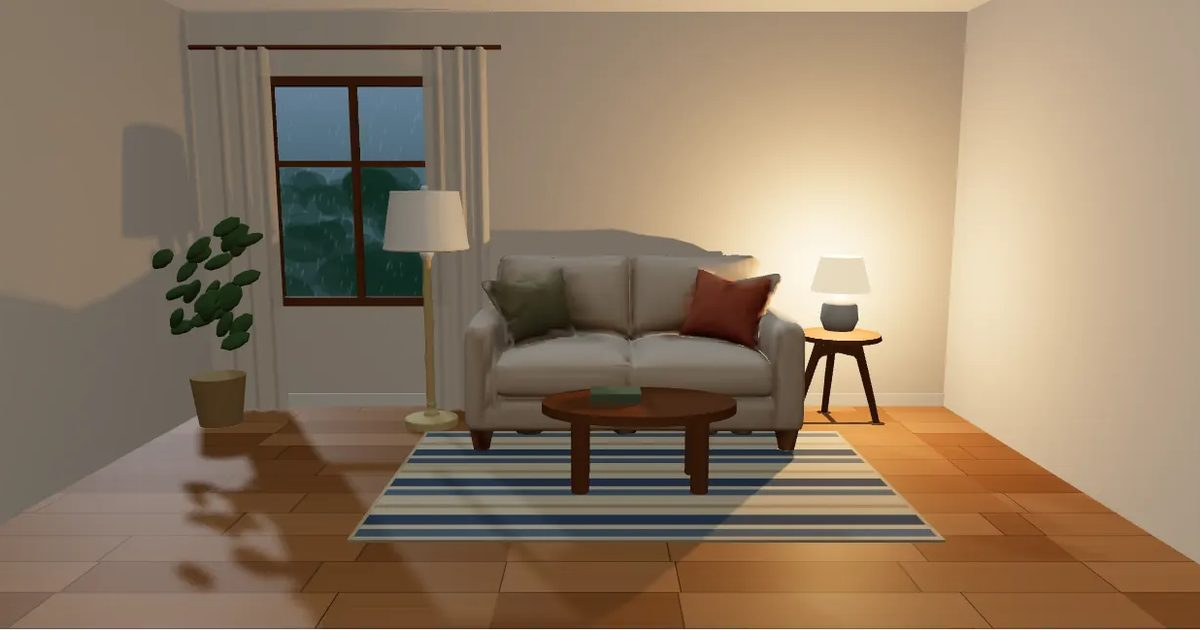
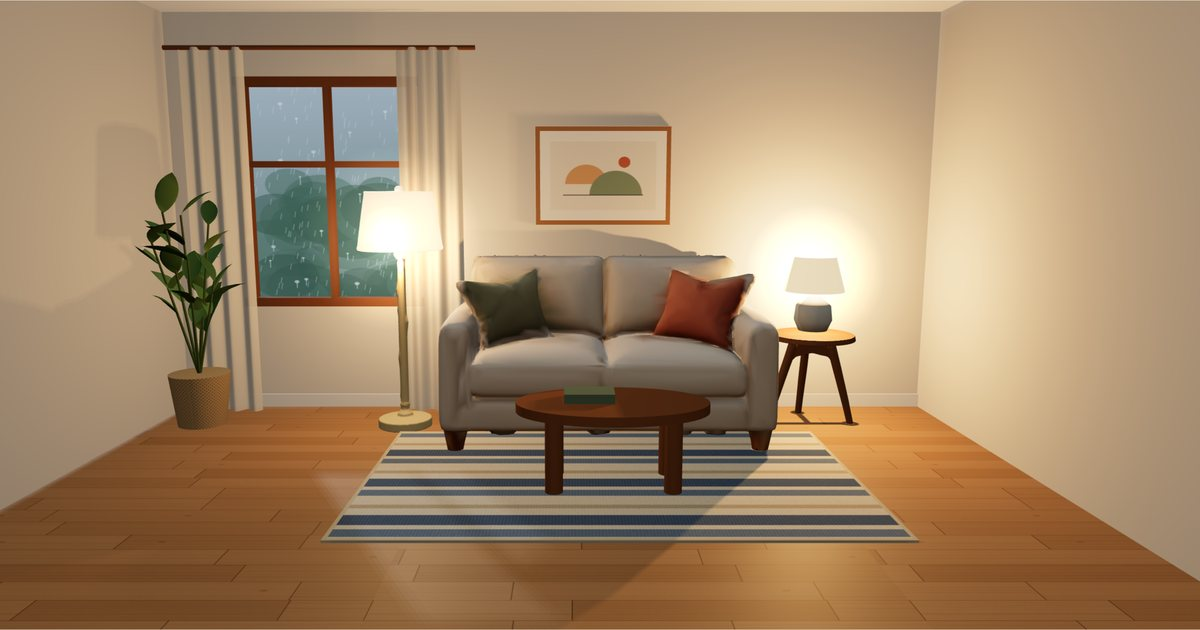
ROOMVERSE 3D: detail round 1 (window view per mood, real window light, floor, plant, print, lit lamps)
- The view outside changes with the feeling: rain, a sunny afternoon, a city night
- Walls and ceiling cast shadows, so window light comes in only through the window
  (fixes the bright band on the right wall and the stray plant shadow)
- Narrow oak planks instead of wide tile-like boards
- Plant rebuilt: woven basket, stems, real leaf shapes
- Framed print above the sofa; LED strip moved below it
- Floor lamp lights up (glowing shade) in the rain and night moods; halos around lit shades
- Poster, mobile poster and share image re-captured to match

Claude-Session: https://claude.ai/code/session_01BAtewmLxFW65JSewr35GUN

diff --git a/public/prototype/roomverse-3d/app.js b/public/prototype/roomverse-3d/app.js
@@ -12,9 +12,10 @@ export const TEXT = {
   en: { mood: "Feeling", wall: "Wall", rug: "Rug", hint: "Drag to turn the room a little." },
 };
 const MOODS = {
-  rain: { zh: "下雨天想窩在家裡", en: "Rainy day, staying in", hemi: .9, win: .7, winCol: "#bccbdb", lamp: 5, fill: 1.2, out: "#9aa9b6", exposure: 1.05 },
-  family: { zh: "Cozy family", en: "Cozy family", hemi: 1.6, win: 3.2, winCol: "#ffe7c2", lamp: 2, fill: 2.4, out: "#ffffff", exposure: 1.15 },
-  tech: { zh: "未來輕科技宅男", en: "Light-tech homebody", hemi: .6, win: .4, winCol: "#a9c4ff", lamp: 3.6, fill: .7, out: "#6f7f9a", exposure: 1, led: true },
+  // floor: the floor lamp's light; glow: how strong the halos around lit shades are
+  rain: { zh: "下雨天想窩在家裡", en: "Rainy day, staying in", hemi: .9, win: .7, winCol: "#bccbdb", lamp: 5, fill: 1.2, out: "#d2dae0", exposure: 1.05, floor: 2.2, glow: .55 },
+  family: { zh: "Cozy family", en: "Cozy family", hemi: 1.6, win: 3.2, winCol: "#ffe7c2", lamp: 2, fill: 2.4, out: "#ffffff", exposure: 1.15, floor: 0, glow: .15 },
+  tech: { zh: "未來輕科技宅男", en: "Light-tech homebody", hemi: .6, win: .4, winCol: "#a9c4ff", lamp: 3.6, fill: .7, out: "#ffffff", exposure: 1, led: true, floor: 1.2, glow: .45 },
 };
 
 export async function start({ stage, panel, lang, onReady }) {
@@ -57,21 +58,24 @@ export async function start({ stage, panel, lang, onReady }) {
   }
   let seed = 7; const rnd = () => (seed = (seed * 16807) % 2147483647) / 2147483647; // same grain every visit
   const noise = (ctx, w, h, a, n = 9000) => { for (let i = 0; i < n; i++) { ctx.fillStyle = `rgba(${rnd() < .5 ? "255,255,255" : "0,0,0"},${a})`; ctx.fillRect(rnd() * w, rnd() * h, 1.5, 1.5); } };
+  // narrow oak planks (about 15 cm wide), low tone contrast so they read as wood, not tiles
   const floorTex = canvasTex(1024, 1024, (ctx, w, h) => {
-    const plank = h / 8;
-    for (let r = 0; r < 8; r++) {
-      let x = -(r % 3) * 170;
+    const rows = 12, plank = h / rows;
+    for (let r = 0; r < rows; r++) {
+      let x = -((r * 397) % 520);
       while (x < w) {
-        const len = 300 + rnd() * 260, tone = 120 + rnd() * 30;
-        ctx.fillStyle = `rgb(${tone + 40},${tone - 10},${tone - 55})`; ctx.fillRect(x, r * plank, len, plank);
-        for (let g = 0; g < 14; g++) { ctx.strokeStyle = `rgba(70,35,10,${.05 + rnd() * .07})`; ctx.beginPath(); const y = r * plank + rnd() * plank; ctx.moveTo(x, y); ctx.bezierCurveTo(x + len * .3, y + 4, x + len * .6, y - 4, x + len, y + 2); ctx.stroke(); }
-        ctx.fillStyle = "rgba(40,20,5,.55)"; ctx.fillRect(x, r * plank, 2, plank);
+        const len = 380 + rnd() * 320, tone = 128 + rnd() * 14;
+        ctx.fillStyle = `rgb(${tone + 44},${tone - 2},${tone - 46})`; ctx.fillRect(x, r * plank, len, plank);
+        for (let g = 0; g < 10; g++) { ctx.strokeStyle = `rgba(90,50,20,${.04 + rnd() * .06})`; ctx.lineWidth = 1 + rnd(); ctx.beginPath(); const y = r * plank + 3 + rnd() * (plank - 6); ctx.moveTo(x, y); ctx.bezierCurveTo(x + len * .3, y + 3, x + len * .6, y - 3, x + len, y + 1); ctx.stroke(); }
+        if (rnd() < .35) { ctx.fillStyle = "rgba(90,50,20,.18)"; ctx.beginPath(); ctx.ellipse(x + rnd() * len, r * plank + plank / 2, 9, 4, 0, 0, 7); ctx.fill(); } // a knot now and then
+        ctx.fillStyle = "rgba(50,25,8,.4)"; ctx.fillRect(x, r * plank, 2, plank);
         x += len;
       }
-      ctx.fillStyle = "rgba(40,20,5,.5)"; ctx.fillRect(0, r * plank, w, 2);
+      ctx.fillStyle = "rgba(50,25,8,.35)"; ctx.fillRect(0, r * plank, w, 1.5);
     }
+    noise(ctx, w, h, .03, 20000);
   });
-  floorTex.repeat.set(2.2, 2.2);
+  floorTex.repeat.set(2.6, 2.6);
   const WALLS = {
     original: { zh: "原來的米白", en: "Original cream", paint: "#e9e1d3" },
     sand: { zh: "暖砂米", en: "Warm sand", paint: "#d9c6a8" },
@@ -120,18 +124,38 @@ export async function start({ stage, panel, lang, onReady }) {
   const wallShape = new THREE.Shape([new THREE.Vector2(-W / 2, 0), new THREE.Vector2(W / 2, 0), new THREE.Vector2(W / 2, H), new THREE.Vector2(-W / 2, H)]);
   wallShape.holes.push(new THREE.Path([new THREE.Vector2(win.x0, win.y0), new THREE.Vector2(win.x1, win.y0), new THREE.Vector2(win.x1, win.y1), new THREE.Vector2(win.x0, win.y1)]));
   const wallMat = new THREE.MeshStandardMaterial({ color: "#e9e1d3", roughness: .9 });
-  add(new THREE.ShapeGeometry(wallShape), wallMat, 0, 0, BACK, false);
+  add(new THREE.ShapeGeometry(wallShape), wallMat, 0, 0, BACK, true); // casts: window light only comes in through the window
   const sideMat = new THREE.MeshStandardMaterial({ color: "#e4ddd0", roughness: .95 });
-  [-1, 1].forEach((s) => { add(new THREE.PlaneGeometry(D, H), sideMat, s * W / 2, H / 2, BACK + D / 2, false).rotation.y = -s * Math.PI / 2; });
-  add(new THREE.PlaneGeometry(W, D), new THREE.MeshStandardMaterial({ color: "#f6f2ea", emissive: "#f6f2ea", emissiveIntensity: .12 }), 0, H, BACK + D / 2, false).rotation.x = Math.PI / 2;
+  // side walls and ceiling cast too: otherwise window light leaks through them (a bright band on the right wall, a patch at the left)
+  [-1, 1].forEach((s) => { add(new THREE.PlaneGeometry(D, H + .3), sideMat, s * W / 2, H / 2 - .15, BACK + D / 2, true).rotation.y = -s * Math.PI / 2; });
+  add(new THREE.PlaneGeometry(W, D), new THREE.MeshStandardMaterial({ color: "#f6f2ea", emissive: "#f6f2ea", emissiveIntensity: .12 }), 0, H, BACK + D / 2, true).rotation.x = Math.PI / 2;
   const wood = new THREE.MeshStandardMaterial({ color: "#8a5a36", roughness: .6 });
   add(new THREE.BoxGeometry(W, .09, .02), new THREE.MeshStandardMaterial({ color: "#f3efe6", roughness: .7 }), 0, .045, BACK + .01, false);
-  const outside = canvasTex(256, 512, (ctx, w, h) => {
-    const g = ctx.createLinearGradient(0, 0, 0, h); g.addColorStop(0, "#9fb0bd"); g.addColorStop(1, "#5d7268"); ctx.fillStyle = g; ctx.fillRect(0, 0, w, h);
-    for (let i = 0; i < 40; i++) { ctx.fillStyle = `rgba(60,90,70,${.3 + rnd() * .3})`; ctx.beginPath(); ctx.arc(rnd() * w, h * .45 + rnd() * h * .55, 20 + rnd() * 40, 0, 7); ctx.fill(); }
-    ctx.strokeStyle = "rgba(230,240,250,.35)"; for (let i = 0; i < 160; i++) { const x = rnd() * w, y = rnd() * h; ctx.beginPath(); ctx.moveTo(x, y); ctx.lineTo(x - 2, y + 14); ctx.stroke(); }
-  });
-  const outMat = new THREE.MeshBasicMaterial({ map: outside });
+  // the view outside changes with the feeling: grey rain, a sunny afternoon, a city night
+  const trees = (ctx, w, h, cols, top = .45) => { for (let i = 0; i < 46; i++) { ctx.fillStyle = cols[i % cols.length]; ctx.beginPath(); ctx.arc(rnd() * w, h * top + rnd() * h * (1 - top), 22 + rnd() * 40, 0, 7); ctx.fill(); } };
+  const VIEWS = {
+    rain: () => canvasTex(256, 512, (ctx, w, h) => {
+      const g = ctx.createLinearGradient(0, 0, 0, h); g.addColorStop(0, "#9fb0bd"); g.addColorStop(1, "#5d7268"); ctx.fillStyle = g; ctx.fillRect(0, 0, w, h);
+      trees(ctx, w, h, ["rgba(60,90,70,.45)", "rgba(70,100,82,.55)", "rgba(50,78,62,.5)"]);
+      ctx.fillStyle = "rgba(200,212,222,.18)"; ctx.fillRect(0, 0, w, h); // mist
+      ctx.strokeStyle = "rgba(230,240,250,.35)"; for (let i = 0; i < 160; i++) { const x = rnd() * w, y = rnd() * h; ctx.beginPath(); ctx.moveTo(x, y); ctx.lineTo(x - 2, y + 14); ctx.stroke(); }
+      for (let i = 0; i < 30; i++) { const x = rnd() * w, y = rnd() * h, r = 1.5 + rnd() * 2.5; ctx.fillStyle = "rgba(235,242,250,.5)"; ctx.beginPath(); ctx.arc(x, y, r, 0, 7); ctx.fill(); ctx.fillRect(x - .6, y, 1.2, 6 + rnd() * 14); } // drops on the glass
+    }),
+    family: () => canvasTex(256, 512, (ctx, w, h) => {
+      const g = ctx.createLinearGradient(0, 0, 0, h); g.addColorStop(0, "#a9cbe6"); g.addColorStop(.45, "#e9eadb"); g.addColorStop(1, "#d9c99a"); ctx.fillStyle = g; ctx.fillRect(0, 0, w, h);
+      for (let i = 0; i < 5; i++) { ctx.fillStyle = "rgba(255,255,255,.7)"; const x = rnd() * w, y = 30 + rnd() * 120; ctx.beginPath(); ctx.ellipse(x, y, 40 + rnd() * 30, 10 + rnd() * 6, 0, 0, 7); ctx.fill(); }
+      trees(ctx, w, h, ["#7f9f55", "#94b263", "#6c8c4a", "#a9bf72"], .5);
+      for (let i = 0; i < 40; i++) { ctx.fillStyle = "rgba(255,240,190,.35)"; ctx.beginPath(); ctx.arc(rnd() * w, h * .5 + rnd() * h * .3, 6 + rnd() * 10, 0, 7); ctx.fill(); } // sun on the leaves
+    }),
+    tech: () => canvasTex(256, 512, (ctx, w, h) => {
+      const g = ctx.createLinearGradient(0, 0, 0, h); g.addColorStop(0, "#141c33"); g.addColorStop(.6, "#2a3558"); g.addColorStop(1, "#3b3f5c"); ctx.fillStyle = g; ctx.fillRect(0, 0, w, h);
+      for (let i = 0; i < 40; i++) { ctx.fillStyle = `rgba(255,255,255,${.3 + rnd() * .5})`; ctx.fillRect(rnd() * w, rnd() * h * .4, 1.2, 1.2); }
+      let x = -10; while (x < w) { const bw = 30 + rnd() * 50, bh = h * (.25 + rnd() * .4); ctx.fillStyle = `rgb(${22 + rnd() * 14},${28 + rnd() * 14},${48 + rnd() * 16})`; ctx.fillRect(x, h - bh, bw, bh);
+        for (let wy = h - bh + 8; wy < h - 6; wy += 12) for (let wx = x + 5; wx < x + bw - 6; wx += 9) if (rnd() < .35) { ctx.fillStyle = rnd() < .7 ? "rgba(255,214,140,.85)" : "rgba(150,210,255,.85)"; ctx.fillRect(wx, wy, 4, 5); }
+        x += bw + 2; }
+    }),
+  };
+  const outMat = new THREE.MeshBasicMaterial();
   const wx = (win.x0 + win.x1) / 2, wy = (win.y0 + win.y1) / 2, ww = win.x1 - win.x0, wh = win.y1 - win.y0;
   add(new THREE.PlaneGeometry(ww, wh), outMat, wx, wy, BACK - .06, false);
   const frame = (x, y, w, h) => add(new THREE.BoxGeometry(w, h, .08), wood, x, y, BACK - .02);
@@ -150,12 +174,49 @@ export async function start({ stage, panel, lang, onReady }) {
   add(new THREE.BoxGeometry(.26, .05, .18), new THREE.MeshStandardMaterial({ color: "#6d7d68" }), SX - .12, .47, SZ + 1.02);
   const lathe = new THREE.LatheGeometry([[0, 0], [.09, .01], [.12, .08], [.11, .17], [.05, .23], [.02, .26]].map(([x, y]) => new THREE.Vector2(x, y)), 32);
   add(lathe, new THREE.MeshStandardMaterial({ color: "#c9c4b8", roughness: .5 }), TX, .615, TZ);
-  add(new THREE.CylinderGeometry(.13, .19, .22, 40, 1, true), new THREE.MeshStandardMaterial({ color: "#f3e7cf", emissive: "#ffcf8a", emissiveIntensity: .9, side: THREE.DoubleSide, roughness: 1 }), TX, .99, TZ, false);
+  const tableShade = new THREE.MeshStandardMaterial({ color: "#f3e7cf", emissive: "#ffcf8a", emissiveIntensity: .9, side: THREE.DoubleSide, roughness: 1 });
+  add(new THREE.CylinderGeometry(.13, .19, .22, 40, 1, true), tableShade, TX, .99, TZ, false);
   const lampLight = new THREE.PointLight("#ffc27a", 3.2, 6, 1.6);
   lampLight.position.set(TX, .98, TZ); lampLight.castShadow = true; lampLight.shadow.mapSize.set(1024, 1024); lampLight.shadow.bias = -.002; lampLight.shadow.radius = 6; scene.add(lampLight);
-  add(new THREE.CylinderGeometry(.17, .13, .32, 24), new THREE.MeshStandardMaterial({ color: "#b59a6e", roughness: 1 }), -2.35, .16, BACK + .45);
-  const leaf = new THREE.MeshStandardMaterial({ color: "#5d7a4c", roughness: .8 });
-  for (let i = 0; i < 26; i++) { const l = add(new THREE.SphereGeometry(.07, 8, 6), leaf, -2.35 + (rnd() - .5) * .45, .55 + rnd() * .75, BACK + .45 + (rnd() - .5) * .4); l.scale.set(1.4, .5, .9); l.rotation.set(rnd(), rnd(), rnd()); }
+  // plant: a woven basket, thin stems, and real leaf shapes (a midrib fold so they catch the light)
+  const PX = -2.3, PZ = BACK + .45;
+  const basketTex = canvasTex(256, 128, (ctx, w, h) => {
+    ctx.fillStyle = "#b39466"; ctx.fillRect(0, 0, w, h);
+    for (let y = 0; y < h; y += 8) for (let x = (y / 8) % 2 * 8; x < w; x += 16) { ctx.fillStyle = "rgba(255,240,210,.22)"; ctx.fillRect(x, y, 10, 6); ctx.fillStyle = "rgba(70,45,20,.25)"; ctx.fillRect(x + 10, y, 3, 8); }
+  });
+  basketTex.repeat.set(3, 2);
+  add(new THREE.CylinderGeometry(.19, .15, .34, 32), new THREE.MeshStandardMaterial({ map: basketTex, roughness: 1 }), PX, .17, PZ);
+  add(new THREE.CylinderGeometry(.18, .18, .01, 24), new THREE.MeshStandardMaterial({ color: "#4a3a2a", roughness: 1 }), PX, .32, PZ, false);
+  const leafShape = new THREE.Shape(); leafShape.moveTo(0, 0); leafShape.bezierCurveTo(.07, .05, .08, .17, 0, .26); leafShape.bezierCurveTo(-.08, .17, -.07, .05, 0, 0);
+  const leafGeo = new THREE.ShapeGeometry(leafShape, 8); { const p = leafGeo.attributes.position; for (let i = 0; i < p.count; i++) p.setZ(i, Math.abs(p.getX(i)) * .45 - p.getY(i) * p.getY(i) * .5); leafGeo.computeVertexNormals(); }
+  const leafMats = ["#4f6f3f", "#5e8048", "#6b8c52"].map((c) => new THREE.MeshStandardMaterial({ color: c, roughness: .65, side: THREE.DoubleSide }));
+  const stemMat = new THREE.MeshStandardMaterial({ color: "#5a6b3a", roughness: .9 });
+  const up = new THREE.Vector3(0, 1, 0);
+  for (let s = 0; s < 7; s++) {
+    const a = s / 7 * Math.PI * 2 + rnd() * .5, lean = .08 + rnd() * .16, top = new THREE.Vector3(PX + Math.cos(a) * lean, .9 + rnd() * .5, PZ + Math.sin(a) * lean * .8);
+    const from = new THREE.Vector3(PX, .32, PZ), dir = top.clone().sub(from), len = dir.length();
+    const stem = add(new THREE.CylinderGeometry(.006, .009, len, 6), stemMat, ...from.clone().addScaledVector(dir, .5).toArray());
+    stem.quaternion.setFromUnitVectors(up, dir.normalize());
+    for (let k = 0; k < 4; k++) {
+      const at = from.clone().addScaledVector(dir, len * (.45 + k * .18));
+      const l = add(leafGeo, leafMats[(s + k) % 3], at.x, at.y, at.z);
+      l.rotation.set(-.4 - rnd() * .7, a + (k % 2 ? 1.2 : -1.2) + rnd() * .4, (rnd() - .5) * .6, "YXZ");
+      l.scale.setScalar(.8 + rnd() * .5);
+    }
+  }
+  // art above the sofa: a soft abstract print in a thin oak frame
+  const art = canvasTex(600, 420, (ctx, w, h) => {
+    ctx.fillStyle = "#efe8da"; ctx.fillRect(0, 0, w, h);
+    ctx.fillStyle = "#d9a77a"; ctx.beginPath(); ctx.arc(w * .34, h * .62, 120, Math.PI, 0); ctx.fill();
+    ctx.fillStyle = "#8a9c84"; ctx.beginPath(); ctx.arc(w * .62, h * .78, 150, Math.PI, 0); ctx.fill();
+    ctx.fillStyle = "#c46f4f"; ctx.beginPath(); ctx.arc(w * .7, h * .3, 34, 0, 7); ctx.fill();
+    ctx.strokeStyle = "#3f5167"; ctx.lineWidth = 5; ctx.beginPath(); ctx.moveTo(w * .12, h * .78); ctx.lineTo(w * .88, h * .78); ctx.stroke();
+    noise(ctx, w, h, .05, 12000);
+  });
+  const AX = .35, AY = 1.62, AW = .86, AH = .6;
+  add(new THREE.BoxGeometry(AW + .06, AH + .06, .035), new THREE.MeshStandardMaterial({ color: "#a8784c", roughness: .55 }), AX, AY, BACK + .02);
+  add(new THREE.BoxGeometry(AW, AH, .006), new THREE.MeshStandardMaterial({ color: "#f7f3ea", roughness: .9 }), AX, AY, BACK + .038, false);
+  add(new THREE.PlaneGeometry(AW - .14, AH - .14), new THREE.MeshStandardMaterial({ map: art, roughness: .85 }), AX, AY, BACK + .042, false);
   const rugMat = new THREE.MeshStandardMaterial({ roughness: 1 });
   add(new THREE.BoxGeometry(2.6, .012, 1.65), rugMat, SX, .006, SZ + .95, false);
 
@@ -164,11 +225,17 @@ export async function start({ stage, panel, lang, onReady }) {
   const windowLight = new THREE.DirectionalLight("#cfdcea", 1.1);
   windowLight.position.set(-2.4, 2.6, -4.5); windowLight.target.position.set(.2, 0, .2);
   windowLight.castShadow = true; windowLight.shadow.mapSize.set(2048, 2048); windowLight.shadow.radius = 8; windowLight.shadow.bias = -.0005;
-  Object.assign(windowLight.shadow.camera, { left: -3.5, right: 3.5, top: 3.5, bottom: -3.5, near: .5, far: 12 });
+  // shadow box covers the whole room; a smaller box left a bright diagonal band on the right wall
+  Object.assign(windowLight.shadow.camera, { left: -5, right: 5, top: 5, bottom: -5, near: .5, far: 14 });
   scene.add(windowLight, windowLight.target);
   const fill = new THREE.PointLight("#fff1dc", .6, 9, 1.2); fill.position.set(.2, 2.2, 2.2); scene.add(fill);
-  const led = add(new THREE.BoxGeometry(2.2, .015, .015), new THREE.MeshBasicMaterial({ color: "#9fe3ff" }), SX, 1.55, BACK + .02, false);
-  const ledGlow = new THREE.PointLight("#8fd3ff", 0, 3, 2); ledGlow.position.set(SX, 1.5, BACK + .25); scene.add(ledGlow);
+  // LED strip sits just above the sofa back (below the print) and washes the wall
+  const led = add(new THREE.BoxGeometry(2.2, .015, .015), new THREE.MeshBasicMaterial({ color: "#9fe3ff" }), SX, 1.16, BACK + .02, false);
+  const ledGlow = new THREE.PointLight("#8fd3ff", 0, 3, 2); ledGlow.position.set(SX, 1.2, BACK + .25); scene.add(ledGlow);
+  // soft halos around the lamp shades, so a lit lamp looks lit
+  const haloTex = canvasTex(128, 128, (ctx, w, h) => { const g = ctx.createRadialGradient(w / 2, h / 2, 0, w / 2, h / 2, w / 2); g.addColorStop(0, "rgba(255,220,160,.9)"); g.addColorStop(.35, "rgba(255,200,130,.35)"); g.addColorStop(1, "rgba(255,190,120,0)"); ctx.fillStyle = g; ctx.fillRect(0, 0, w, h); });
+  const halo = (x, y, z, s) => { const m = new THREE.Sprite(new THREE.SpriteMaterial({ map: haloTex, blending: THREE.AdditiveBlending, depthWrite: false, transparent: true })); m.position.set(x, y, z); m.scale.setScalar(s); scene.add(m); return m; };
+  const tableHalo = halo(TX, .99, TZ, .9);
 
   // ---------- furniture from illustrations (quantised GLB, ~100 KB each) ----------
   const fabric = new THREE.MeshStandardMaterial({ color: "#e6dccb", roughness: 1 });
@@ -192,14 +259,25 @@ export async function start({ stage, panel, lang, onReady }) {
   prepare(tableObj, () => wood);
   const lampObj = place(floorLamp, { height: 1.55, x: SX - 1.3, z: SZ - .05 });
   const lb = new THREE.Box3().setFromObject(lampObj);
+  const shadeGlow = { value: 0 };
   prepare(lampObj, (m) => {
     // shade starts at 70% of the height (measured on the model: radius jumps from 0.035 to 0.34 there)
     const pos = m.geometry.attributes.position, col = new Float32Array(pos.count * 3), v = new THREE.Vector3();
     for (let i = 0; i < pos.count; i++) { v.fromBufferAttribute(pos, i).applyMatrix4(m.matrixWorld); col.set((v.y - lb.min.y) / (lb.max.y - lb.min.y) > .7 ? [.95, .9, .8] : [.72, .56, .28], i * 3); }
     m.geometry.setAttribute("color", new THREE.BufferAttribute(col, 3));
-    return new THREE.MeshStandardMaterial({ vertexColors: true, roughness: .6, metalness: .1 });
+    const mat = new THREE.MeshStandardMaterial({ vertexColors: true, roughness: .6, metalness: .1 });
+    // the shade glows when the lamp is on: shade vertices are the pale ones (blue channel .8 vs .28 on the pole)
+    mat.onBeforeCompile = (sh) => {
+      sh.uniforms.shadeGlow = shadeGlow;
+      sh.fragmentShader = "uniform float shadeGlow;\n" + sh.fragmentShader.replace("#include <emissivemap_fragment>", "#include <emissivemap_fragment>\ntotalEmissiveRadiance += step(.6, vColor.b) * vec3(1., .78, .5) * shadeGlow;");
+    };
+    return mat;
   });
   scene.add(sofaObj, tableObj, lampObj);
+  // the floor lamp gets its own light just under the shade (no shadow: a light inside the closed shade mesh would be blocked)
+  const shadeY = lb.min.y + (lb.max.y - lb.min.y) * .8, lampX = (lb.min.x + lb.max.x) / 2, lampZ = (lb.min.z + lb.max.z) / 2;
+  const floorLight = new THREE.PointLight("#ffc98a", 0, 5, 1.6); floorLight.position.set(lampX, shadeY - .12, lampZ + .05); scene.add(floorLight);
+  const floorHalo = halo(lampX, shadeY, lampZ + .3, 1.1); // a little in front of the shade so the shade does not hide it
 
   // ---------- state + panel ----------
   const state = { mood: "rain", wall: "original", rug: "stripe", lang };
@@ -208,6 +286,9 @@ export async function start({ stage, panel, lang, onReady }) {
     const m = MOODS[state.mood];
     hemi.intensity = m.hemi; windowLight.intensity = m.win; windowLight.color.set(m.winCol);
     lampLight.intensity = m.lamp; fill.intensity = m.fill; outMat.color.set(m.out);
+    outMat.map = cache["view-" + state.mood] ||= VIEWS[state.mood](); outMat.needsUpdate = true;
+    floorLight.intensity = m.floor; floorHalo.material.opacity = m.floor ? m.glow : 0; tableHalo.material.opacity = m.glow;
+    shadeGlow.value = m.floor ? .55 : 0; tableShade.emissiveIntensity = m.glow > .3 ? .9 : .35; // in daylight a lit shade glows less
     renderer.toneMappingExposure = m.exposure;
     led.visible = !!m.led; ledGlow.intensity = m.led ? .5 : 0;
     const w = WALLS[state.wall];
